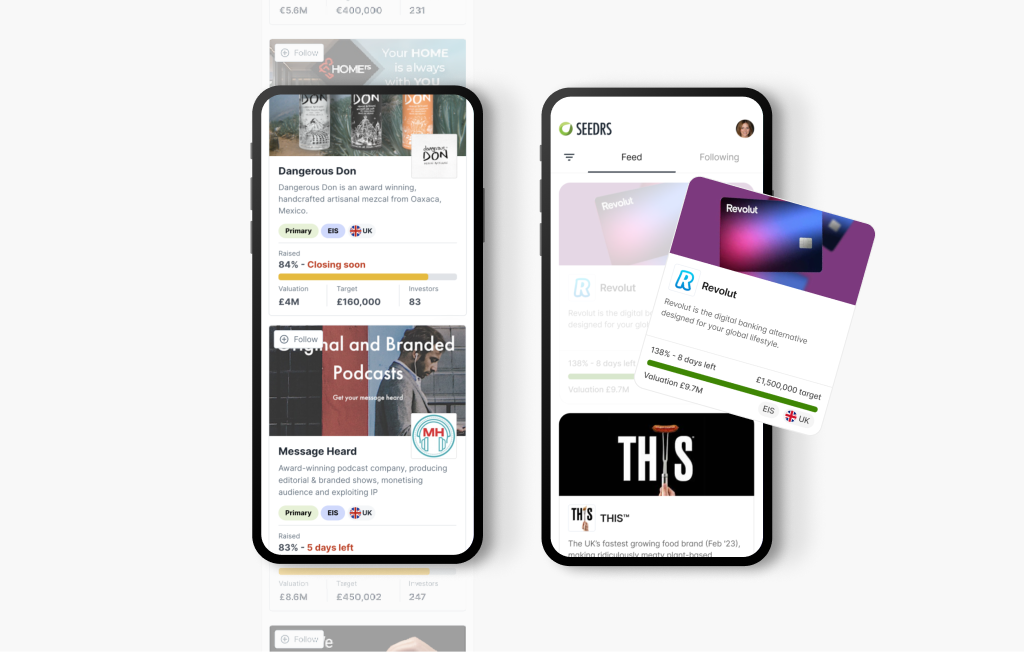
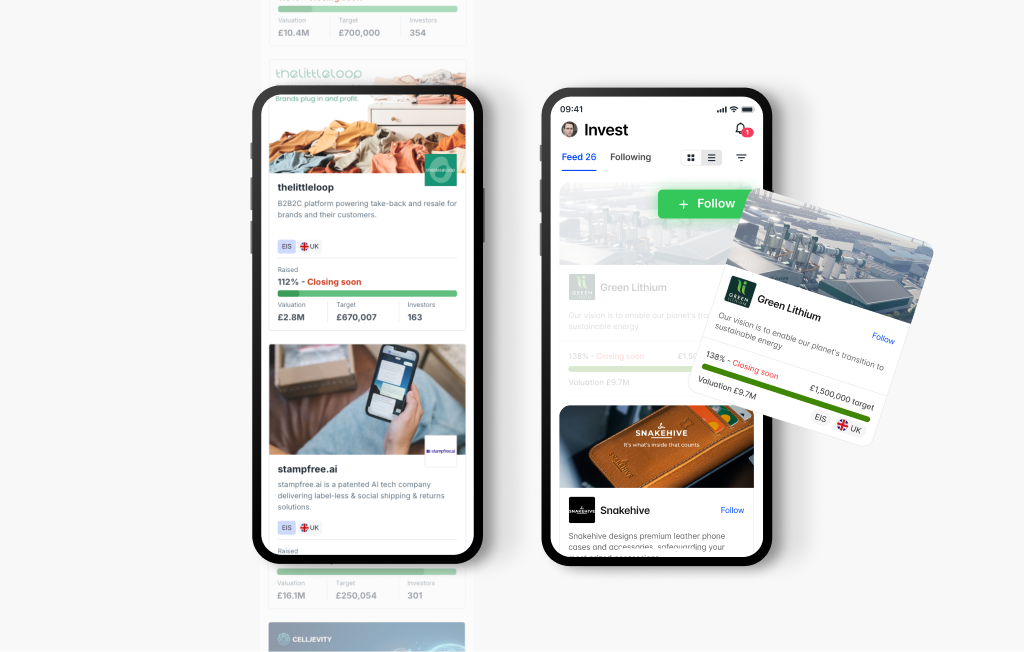
Seedrs case study updates: images, styling, and content
- Add/update Seedrs invest screen and structured progression images
- Swap figure order, replace bullets with checkmarks
- Remove redundant prose paragraph
- Card title line-height and prioritisation styling

Made-with: Cursor

diff --git a/components/CaseTypographicBlocks.tsx b/components/CaseTypographicBlocks.tsx
@@ -18,7 +18,7 @@ import { DiagnosingRootCauses } from "./DiagnosingRootCauses";
 import { RouteToSuccess } from "./RouteToSuccess";
 import { SeedrsCoreAreas } from "./SeedrsCoreAreas";
 import { SeedrsFurtherActionExploration } from "./SeedrsFurtherActionExploration";
-import { SeedrsPrioritisation } from "./SeedrsPrioritisation";
+import { SeedrsPrioritisation, SeedrsPrioritisationTabletImage } from "./SeedrsPrioritisation";
 import { SeedrsResearchInsights } from "./SeedrsResearchInsights";
 import { StackedImagesWithHeaders } from "./StackedImagesWithHeaders";
 import { UserFeedbackQuote } from "./UserFeedbackQuote";
@@ -412,6 +412,46 @@ function renderSectionContent(
         : section.bulletStyle === "outcome"
           ? "outcome"
           : "identified";
+    const hasSeedrsPrioritisation =
+      section.id === "research" &&
+      section.media?.some(
+        (m) => m.type === "component" && m.componentId === "seedrs-prioritisation",
+      );
+    const hasSeedrsResearchInsights =
+      section.id === "research" &&
+      section.media?.some(
+        (m) => m.type === "component" && m.componentId === "seedrs-research-insights",
+      );
+
+    if (hasSeedrsPrioritisation && hasSeedrsResearchInsights) {
+      return (
+        <>
+          <div className={styles.proseBlock}>
+            {section.id === "impact" && leadUserFeedbackQuote ? (
+              <div className={styles.prose}>
+                <CaseTypoProse paragraphs={proseParas} />
+                {leadUserFeedbackQuote}
+              </div>
+            ) : (
+              proseWithInline(proseParas, section.inlineMedia)
+            )}
+            <div className={styles.identifiedBlock}>
+              {leadIn && <p className={styles.identifiedLeadIn}>{leadIn}</p>}
+              <CaseTypoBullets items={section.identifiedItems} variant={variant} />
+            </div>
+            <SeedrsPrioritisation />
+          </div>
+          <SeedrsPrioritisationTabletImage />
+          <div className={styles.proseBlock}>
+            <SeedrsResearchInsights />
+            {section.bodyEnd?.length ? (
+              <CaseTypoProse paragraphs={section.bodyEnd} />
+            ) : null}
+          </div>
+        </>
+      );
+    }
+
     return (
       <div className={styles.proseBlock}>
         {section.id === "impact" && leadUserFeedbackQuote ? (
@@ -426,18 +466,8 @@ function renderSectionContent(
           {leadIn && <p className={styles.identifiedLeadIn}>{leadIn}</p>}
           <CaseTypoBullets items={section.identifiedItems} variant={variant} />
         </div>
-        {section.id === "research" &&
-        section.media?.some(
-          (m) => m.type === "component" && m.componentId === "seedrs-prioritisation",
-        ) ? (
-          <SeedrsPrioritisation />
-        ) : null}
-        {section.id === "research" &&
-        section.media?.some(
-          (m) => m.type === "component" && m.componentId === "seedrs-research-insights",
-        ) ? (
-          <SeedrsResearchInsights />
-        ) : null}
+        {hasSeedrsPrioritisation ? <SeedrsPrioritisation /> : null}
+        {hasSeedrsResearchInsights ? <SeedrsResearchInsights /> : null}
         {section.id !== "impact" && leadUserFeedbackQuote}
         {section.bodyEnd?.length ? (
           <CaseTypoProse paragraphs={section.bodyEnd} />

diff --git a/components/SeedrsFurtherActionExploration.tsx b/components/SeedrsFurtherActionExploration.tsx
@@ -9,6 +9,7 @@ import { SeedrsPrototypeTested } from "./SeedrsPrototypeTested";
 
 export function SeedrsFurtherActionExploration() {
   return (
+    <>
     <div className={styles.proseBlock}>
       <div className={styles.prose}>
         <p>
@@ -92,17 +93,31 @@ export function SeedrsFurtherActionExploration() {
         </ul>
       </div>
 
-      <div className={styles.prose}>
-        <p>The goal was simple: transform browsing into structured progression.</p>
-      </div>
-
-      <figure className={styles.figure}>
-        {/* eslint-disable-next-line @next/next/no-img-element */}
-        <img
-          src="/case-studies/seedrs-structured-progression.png"
-          alt="Investment feed comparison: standard scroll vs Seedrs swipe prototype"
-        />
-      </figure>
     </div>
+
+    <figure className={styles.figureBreakout}>
+      {/* eslint-disable-next-line @next/next/no-img-element */}
+      <img
+        src="/case-studies/seedrs-invest-screen-original.png"
+        alt="Seedrs Invest app: Feed and Following tabs"
+      />
+    </figure>
+
+    <figure className={styles.figureBreakout}>
+      {/* eslint-disable-next-line @next/next/no-img-element */}
+      <img
+        src="/case-studies/seedrs-structured-progression.png"
+        alt="Investment feed comparison: standard scroll vs Seedrs swipe prototype"
+      />
+    </figure>
+
+    <figure className={styles.figureBreakout}>
+      {/* eslint-disable-next-line @next/next/no-img-element */}
+      <img
+        src="/case-studies/ui-detail-seedrs.png"
+        alt="Seedrs Invest app: Feed and Following tabs with investment card"
+      />
+    </figure>
+    </>
   );
 }

diff --git a/components/SeedrsPrioritisation.tsx b/components/SeedrsPrioritisation.tsx
@@ -26,13 +26,18 @@ export function SeedrsPrioritisation() {
           </div>
         ))}
       </div>
-      <div className={styles.tabletImage}>
-        {/* eslint-disable-next-line @next/next/no-img-element */}
-        <img
-          src="/case-studies/seedrs-prioritisation-tablet.png"
-          alt="Seedrs platform on tablet showing campaign cards with funding momentum, tax eligibility, and other prioritised information"
-        />
-      </div>
     </figure>
+  );
+}
+
+export function SeedrsPrioritisationTabletImage() {
+  return (
+    <div className={styles.tabletImageBreakout}>
+      {/* eslint-disable-next-line @next/next/no-img-element */}
+      <img
+        src="/case-studies/seedrs-prioritisation-tablet.png"
+        alt="Seedrs platform on tablet showing campaign cards with funding momentum, tax eligibility, and other prioritised information"
+      />
+    </div>
   );
 }

diff --git a/components/CaseTypographicBlocks.module.css b/components/CaseTypographicBlocks.module.css
@@ -188,11 +188,11 @@
 .bulletsIdentified li::before {
   content: "";
   position: absolute;
-  width: 9px;
-  height: 15px;
+  width: 14px;
+  height: 14px;
   top: 0.2em;
   left: 0;
-  background: url("/icons/exclamation-icon.svg") no-repeat;
+  background: url("/icons/checkmark-icon.svg") no-repeat;
   background-size: contain;
 }
 
@@ -352,6 +352,29 @@
   margin: 0 0 var(--space-8);
   padding-top: 0;
   color-scheme: only light;
+}
+
+.figureBreakout {
+  width: 100%;
+  max-width: 990px;
+  margin: var(--space-8) auto 0;
+  display: flex;
+  justify-content: center;
+  color-scheme: only light;
+}
+
+.figureBreakout img {
+  display: block;
+  width: 100%;
+  height: auto;
+}
+
+@media (min-width: 1000px) {
+  .figureBreakout {
+    width: 990px;
+    margin-left: calc(50% - 495px);
+    margin-right: calc(50% - 495px);
+  }
 }
 
 .sectionMedia .figure {

diff --git a/components/SeedrsPrototypeTested.tsx b/components/SeedrsPrototypeTested.tsx
@@ -11,7 +11,7 @@ const reasons = [
     iconSrc: lightbulbIcon,
     title: "Zeigarnik effect",
     description:
-      "By utilising the zeigarnik effect, our swipe prototype enhanced engagement by presenting each swipe—indicating interest or dismissal—as a new, uncompleted decision, maintaining user focus. The user is always considering their next option.",
+      "A UX psychology principle that shows people remember and feel drawn to incomplete tasks more than finished ones. We applied it by framing each swipe as a fresh, unresolved decision: interest or dismissal. That cognitive tension kept users focused and motivated to continue through the feed.",
   },
   {
     id: "simplicity",

diff --git a/components/SeedrsPrioritisation.module.css b/components/SeedrsPrioritisation.module.css
@@ -13,16 +13,28 @@
   gap: var(--space-4);
 }
 
-.tabletImage {
+.tabletImageBreakout {
+  width: 100%;
+  max-width: 990px;
   margin-top: var(--space-8);
+  margin-left: auto;
+  margin-right: auto;
   display: flex;
   justify-content: center;
 }
 
-.tabletImage img {
+.tabletImageBreakout img {
   display: block;
-  max-width: 100%;
+  width: 100%;
   height: auto;
+}
+
+@media (min-width: 1000px) {
+  .tabletImageBreakout {
+    width: 990px;
+    margin-left: calc(50% - 495px);
+    margin-right: calc(50% - 495px);
+  }
 }
 
 .block {

diff --git a/components/SeedrsPrototypeTested.module.css b/components/SeedrsPrototypeTested.module.css
@@ -30,6 +30,7 @@
   margin: 0 0 var(--space-3);
   font-size: 12px;
   font-weight: 900;
+  line-height: 130%;
   letter-spacing: 0.08em;
   text-transform: uppercase;
   color: rgb(19, 19, 19);
